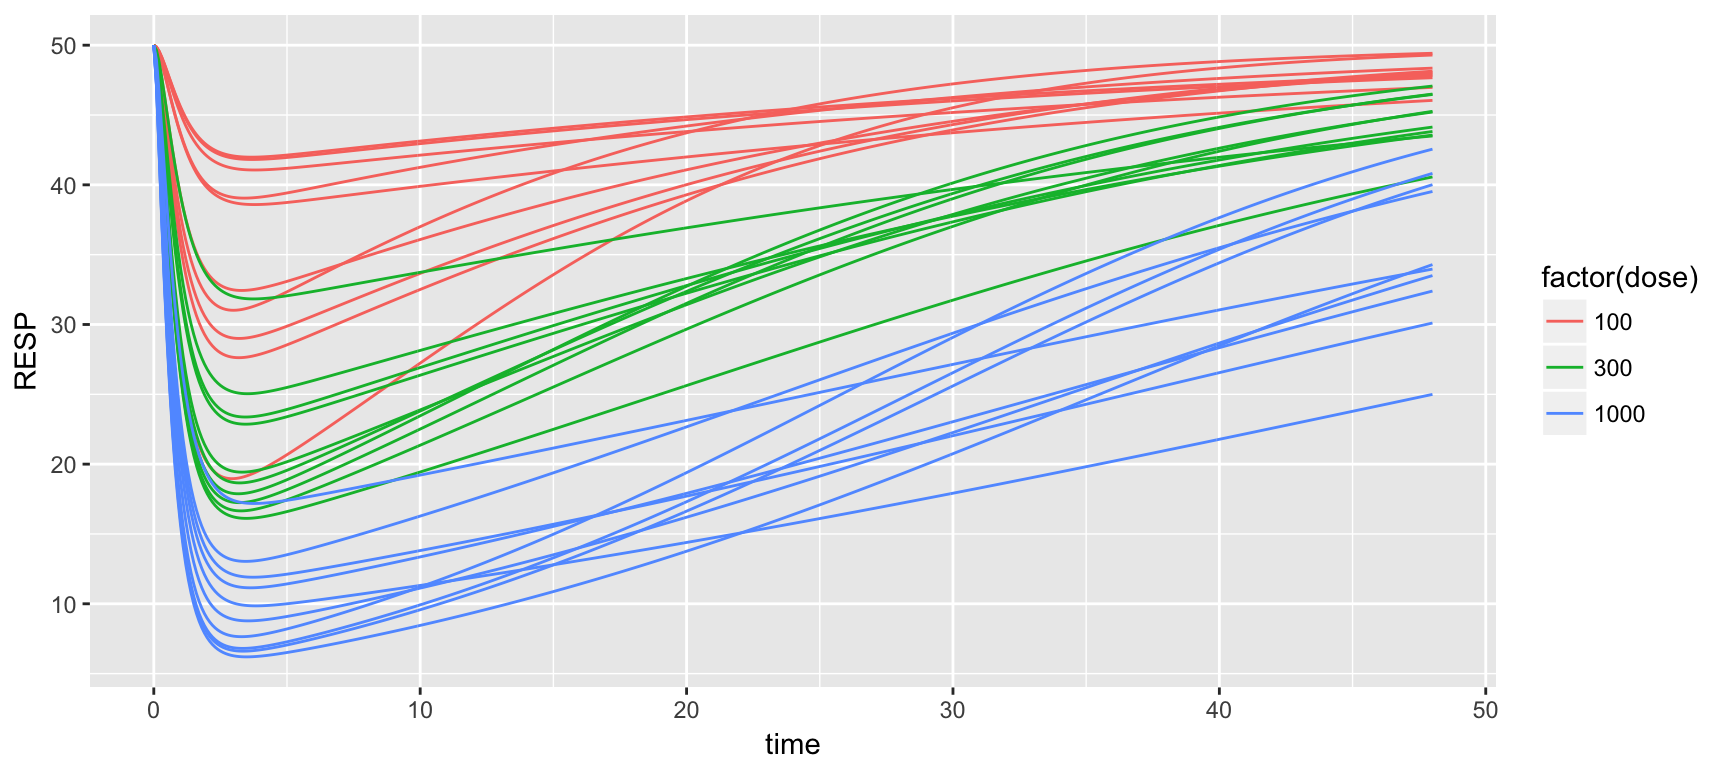
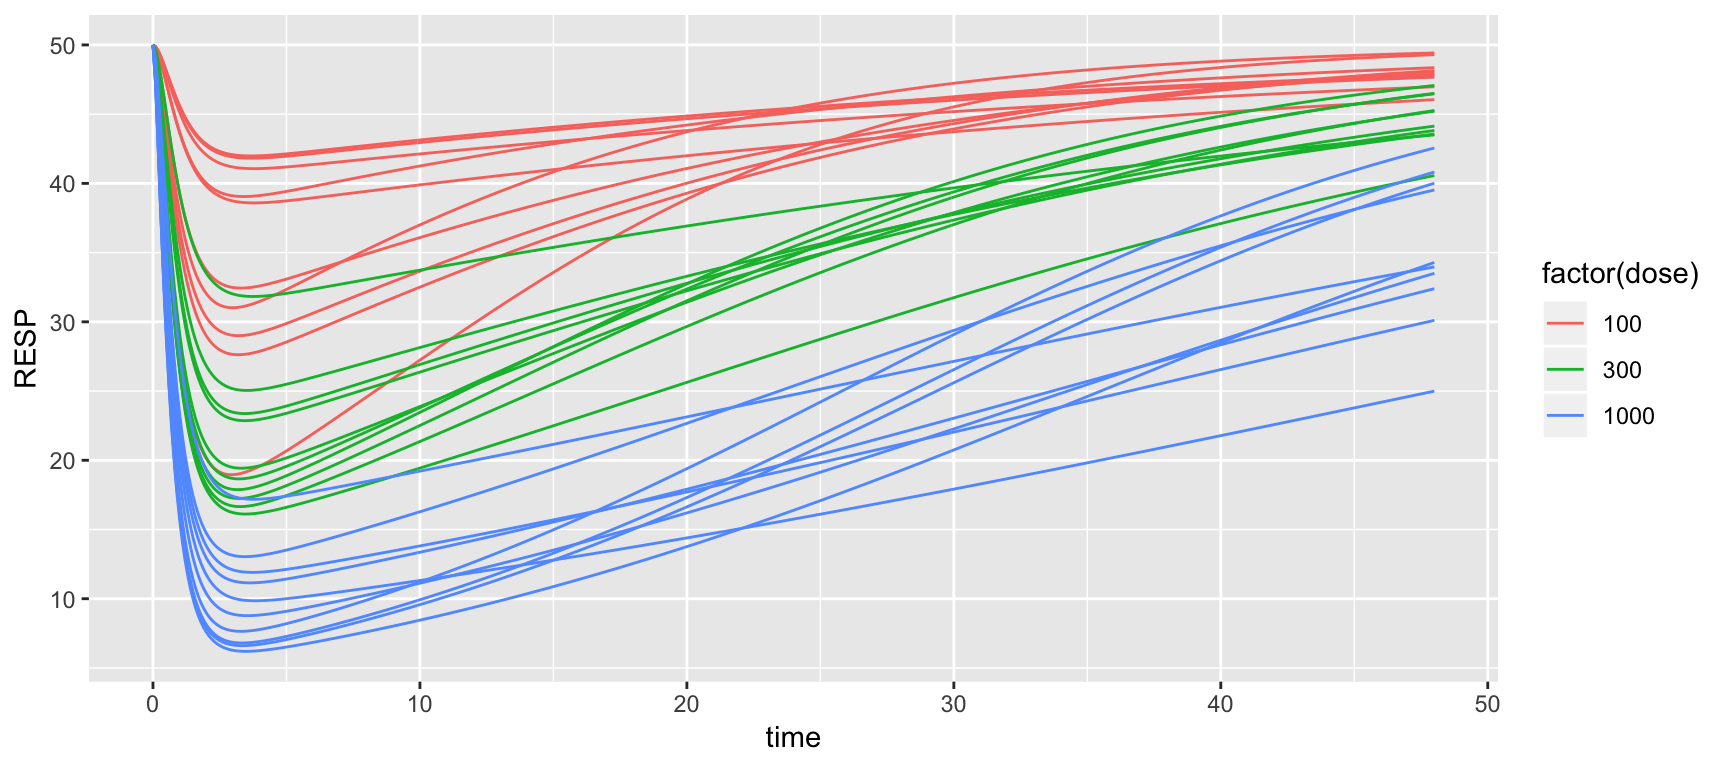
revive mtime

diff --git a/src/devtran.cpp b/src/devtran.cpp
@@ -197,9 +197,9 @@ Rcpp::List DEVTRAN(const Rcpp::List parin,
   
   // Need this for later
   int nextpos = put_ev_first ?  (data.nrow() + 10) : -100;
-   
+  
   if((obscount == 0) || (obsaug)) {
-     
+    
     Rcpp::NumericMatrix tgrid = Rcpp::as<Rcpp::NumericMatrix>(parin["tgridmatrix"]);
     
     bool multiple_tgrid = tgrid.ncol() > 1;
@@ -366,7 +366,7 @@ Rcpp::List DEVTRAN(const Rcpp::List parin,
   prob->rown(0);
   
   prob->config_call();
-  
+  reclist mtimehx;
   // i is indexing the subject, j is the record
   
   // LOOP ACROSS IDS:
@@ -474,25 +474,34 @@ Rcpp::List DEVTRAN(const Rcpp::List parin,
         prob->init_call_record(tto);
       }
       
-      // if(prob->any_mtime()) {
-      //   std::vector<shuttle> mt  = prob->mtimes();
-      //   for(size_t mti = 0; mti < mt.size(); ++mti) {
-      //     int this_evid = mt[mti].evid;
-      //     double this_time = mt[mti].time;
-      //     if(this_time < tto) next;
-      //     double this_amt = mt[mti].amt;
-      //     const int this_cmt = mt[mti].cmt;
-      //     if(neq!=0 && this_evid !=0) {
-      //       if((this_cmt == 0) || (abs(this_cmt) > neq)) {
-      //         CRUMP("cmt number in event from $MAIN out of range");
-      //       }
-      //     }
-      //     rec_ptr new_ev = NEWREC(this_cmt, this_evid,this_amt, this_time, 0.0);
-      //     a[i].push_back(new_ev);
-      //     std::sort(a[i].begin()+i,a[i].end(),CompRec());
-      //   }
-      //   prob->clear_mtime();
-      // }
+      if(prob->any_mtime()) {
+        if(prob->newind() <=1) mtimehx.clear();  
+        std::vector<shuttle> mt  = prob->mtimes();
+        for(size_t mti = 0; mti < mt.size(); ++mti) {
+          int this_evid = mt[mti].evid;
+          double this_time = mt[mti].time;
+          if(this_time < tto) continue;
+          //double this_amt = mt[mti].amt;
+          const int this_cmt = mt[mti].cmt;
+          if(neq!=0 && this_evid !=0) {
+            if((this_cmt == 0) || (abs(this_cmt) > neq)) {
+              CRUMP("Compartment number in event from $MAIN out of range.");
+            }
+          }
+          rec_ptr new_ev = NEWREC(this_cmt,this_evid,0.0,this_time,0.0);
+          //Rcpp::Rcout << "length " << mtimehx.size() << std::endl;
+          bool foo = CompEqual(mtimehx,this_time,this_evid,this_cmt);
+          if(!foo) {
+            //Rcpp::Rcout << "didn't find it " << tto << " " << this_evid << " " << this_time << std::endl;
+            a[i].push_back(new_ev);
+            std::sort(a[i].begin()+i,a[i].end(),CompRec());
+            mtimehx.push_back(new_ev);
+          } else {
+            //Rcpp::Rcout << "FOUND it " << tto << " " << this_evid << " " << this_time << std::endl;
+          }
+        }
+        prob->clear_mtime();
+      }
       
       // Some non-observation event happening
       if(this_rec->is_event()) {

diff --git a/inst/include/datarecord.h b/inst/include/datarecord.h
@@ -107,6 +107,7 @@ public:
   void unarm() {Armed=false;}
   
   void phantom_rec() {Output=false; Fromdata=false;}
+  bool is_phantom() {return !Output && !Fromdata;}
   
 protected:
   
@@ -128,6 +129,7 @@ protected:
 
 
 bool CompByTimePosRec(const rec_ptr& a, const rec_ptr& b);
+bool CompEqual(const reclist& a, double time, double evid, double cmt);
 
 /** 
  * @brief Functor for sorting data records in <code>reclist</code>. 

diff --git a/src/datarecord.cpp b/src/datarecord.cpp
@@ -126,6 +126,15 @@ bool CompByTimePosRec(const rec_ptr& a, const rec_ptr& b) {
   return false;
 }
 
+bool CompEqual(const reclist& a, double time, double evid, double cmt) {
+  for(size_t i = 0; i < a.size(); ++i) {
+    if(a[i]->time() != time) continue;
+    if((a[i]->evid()==evid) && (a[i]->cmt()==cmt)) {
+      return true;    
+    }
+  }
+  return false;
+}
 
 double datarecord::dur(double b) {
   return(b*Amt/Rate);
